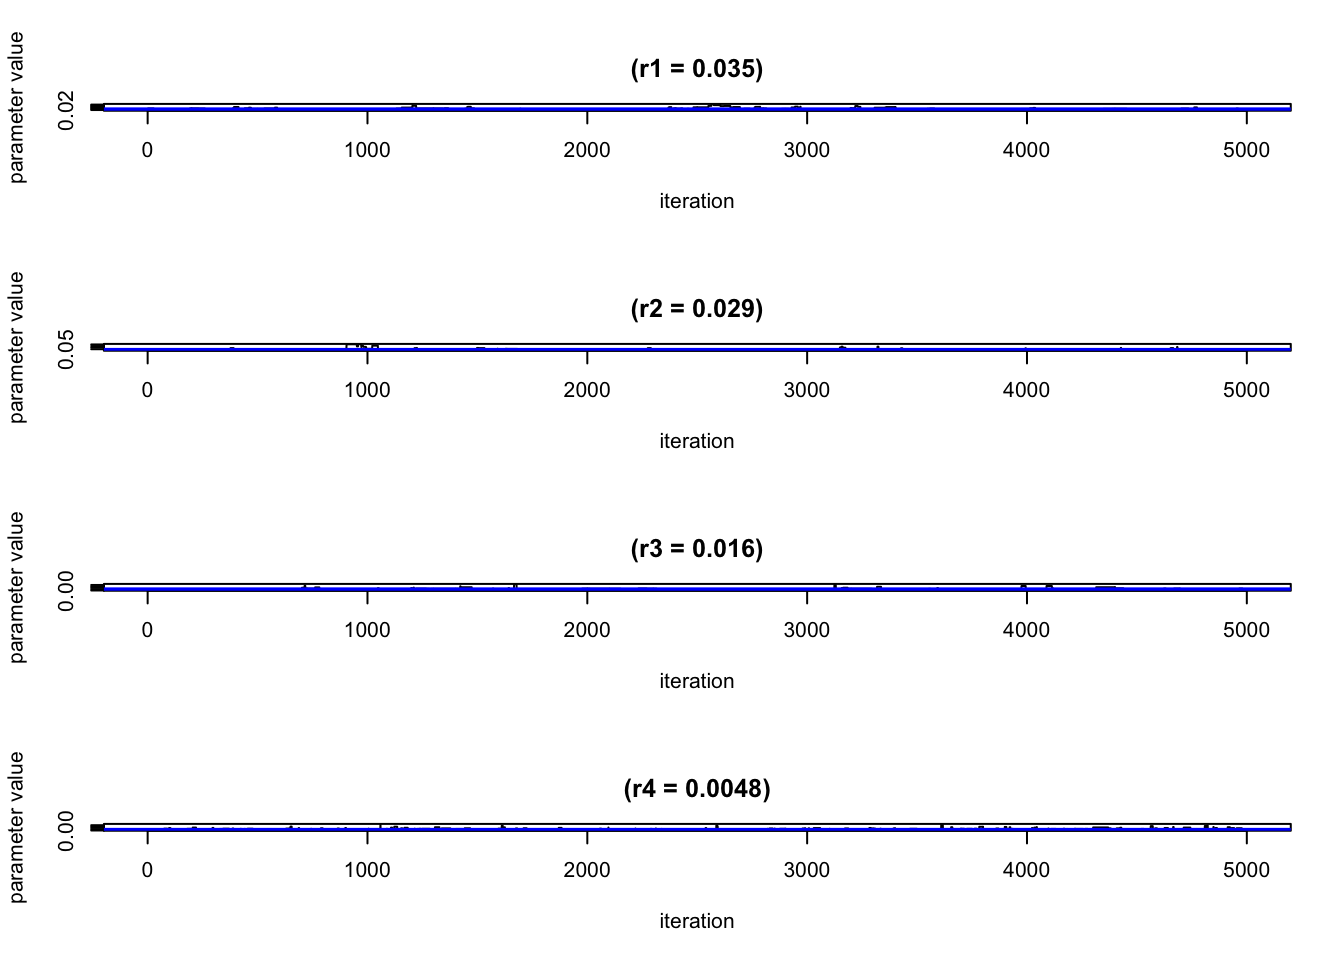
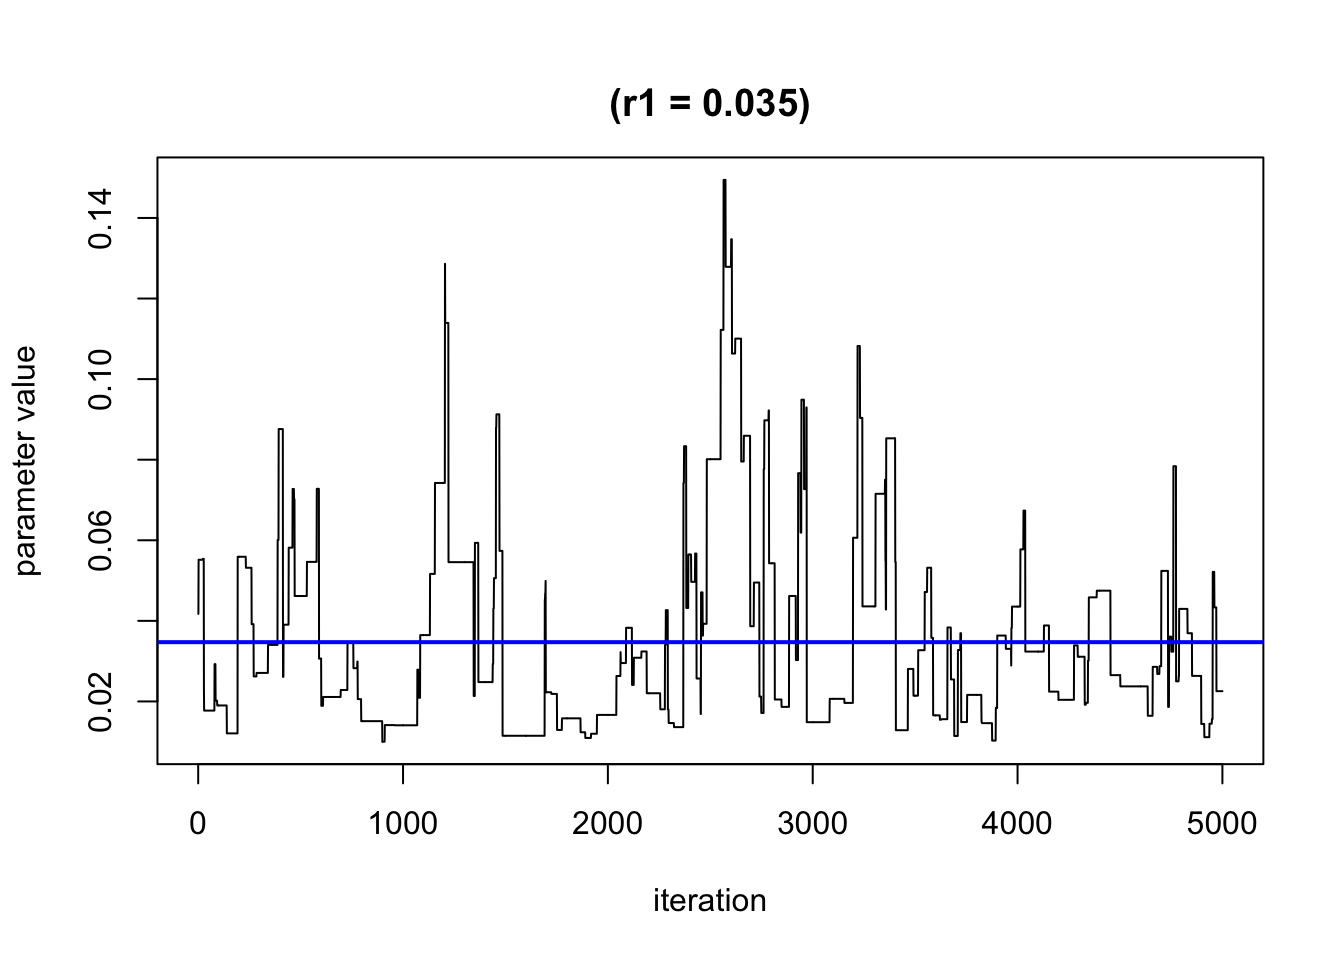
Build site.

diff --git a/docs/chemical_mixture.html b/docs/chemical_mixture.html
@@ -416,7 +416,7 @@ div.tocify {
 <div class="tab-content">
 <div id="summary" class="tab-pane fade in active">
 <p>
-<strong>Last updated:</strong> 2021-01-08
+<strong>Last updated:</strong> 2021-01-13
 </p>
 <p>
 <strong>Checks:</strong> <span class="glyphicon glyphicon-ok text-success" aria-hidden="true"></span> 7 <span class="glyphicon glyphicon-exclamation-sign text-danger" aria-hidden="true"></span> 0
@@ -507,16 +507,16 @@ This reproducible <a href="http://rmarkdown.rstudio.com">R Markdown</a> analysis
 <div class="panel panel-default">
 <div class="panel-heading">
 <p class="panel-title">
-<a data-toggle="collapse" data-parent="#workflowr-checks" href="#strongRepositoryversionstrongahrefhttpsgithubcomyuqimiaomultiomicsSIMLRtree89589b6dadbf907a3aaf72a8212d86f1abe49656targetblank89589b6a"> <span class="glyphicon glyphicon-ok text-success" aria-hidden="true"></span> <strong>Repository version:</strong> <a href="https://github.com/yuqimiao/multiomics-SIMLR/tree/89589b6dadbf907a3aaf72a8212d86f1abe49656" target="_blank">89589b6</a> </a>
+<a data-toggle="collapse" data-parent="#workflowr-checks" href="#strongRepositoryversionstrongahrefhttpsgithubcomyuqimiaomultiomicsSIMLRtreed154e64644ba62fce17fa4e61b5f7b715681291ftargetblankd154e64a"> <span class="glyphicon glyphicon-ok text-success" aria-hidden="true"></span> <strong>Repository version:</strong> <a href="https://github.com/yuqimiao/multiomics-SIMLR/tree/d154e64644ba62fce17fa4e61b5f7b715681291f" target="_blank">d154e64</a> </a>
 </p>
 </div>
[2 lines of base64/hex data omitted]
 <div class="panel-body">
 <p>
 Great! You are using Git for version control. Tracking code development and connecting the code version to the results is critical for reproducibility.
 </p>
 <p>
-The results in this page were generated with repository version <a href="https://github.com/yuqimiao/multiomics-SIMLR/tree/89589b6dadbf907a3aaf72a8212d86f1abe49656" target="_blank">89589b6</a>. See the <em>Past versions</em> tab to see a history of the changes made to the R Markdown and HTML files.
+The results in this page were generated with repository version <a href="https://github.com/yuqimiao/multiomics-SIMLR/tree/d154e64644ba62fce17fa4e61b5f7b715681291f" target="_blank">d154e64</a>. See the <em>Past versions</em> tab to see a history of the changes made to the R Markdown and HTML files.
 </p>
 <p>
 Note that you need to be careful to ensure that all relevant files for the analysis have been committed to Git prior to generating the results (you can use <code>wflow_publish</code> or <code>wflow_git_commit</code>). workflowr only checks the R Markdown file, but you know if there are other scripts or data files that it depends on. Below is the status of the Git repository when the results were generated:
@@ -527,6 +527,7 @@ Ignored files:
     Ignored:    .Rhistory
     Ignored:    .Rproj.user/
     Ignored:    analysis/.DS_Store
+    Ignored:    analysis/.Rhistory
     Ignored:    code/.DS_Store
     Ignored:    code/R/.DS_Store
     Ignored:    code/functions/.DS_Store
@@ -587,6 +588,7 @@ Untracked files:
     Untracked:  data/table_balance_3d3g.Rdata
     Untracked:  gl-simlr_old_analysis.Rmd
     Untracked:  individual_spec_weight.html
+    Untracked:  kernelmap/
     Untracked:  micro_abd.Rdata
     Untracked:  micro_abd_preabs.Rdata
     Untracked:  micro_case_pool2.Rdata
@@ -649,6 +651,40 @@ Message
 Rmd
 </td>
 <td>
+<a href="https://github.com/yuqimiao/multiomics-SIMLR/blob/d154e64644ba62fce17fa4e61b5f7b715681291f/analysis/chemical_mixture.rmd" target="_blank">d154e64</a>
+</td>
+<td>
+yuqimiao
+</td>
+<td>
+2021-01-13
+</td>
+<td>
+change plot
+</td>
+</tr>
+<tr>
+<td>
+html
+</td>
+<td>
+<a href="https://rawcdn.githack.com/yuqimiao/multiomics-SIMLR/6bc2deaed72d4ac8b4971334fb3cd8ae9c4a1e38/docs/chemical_mixture.html" target="_blank">6bc2dea</a>
+</td>
+<td>
+yuqimiao
+</td>
+<td>
+2021-01-08
+</td>
+<td>
+Build site.
+</td>
+</tr>
+<tr>
+<td>
+Rmd
+</td>
+<td>
 <a href="https://github.com/yuqimiao/multiomics-SIMLR/blob/89589b6dadbf907a3aaf72a8212d86f1abe49656/analysis/chemical_mixture.rmd" target="_blank">89589b6</a>
 </td>
 <td>
@@ -674,12 +710,12 @@ methods implementation: BKMR and WQS
 <pre><code>For guided examples, go to &#39;https://jenfb.github.io/bkmr/overview.html&#39;</code></pre>
 <pre class="r"><code>library(wqs)
 library(tidyverse)</code></pre>
-<pre><code>── Attaching packages ────────────────────── tidyverse 1.3.0 ──</code></pre>
+<pre><code>── Attaching packages ──────────────────────────── tidyverse 1.3.0 ──</code></pre>
 <pre><code>✓ ggplot2 3.3.0     ✓ purrr   0.3.3
 ✓ tibble  3.0.0     ✓ dplyr   0.8.5
 ✓ tidyr   1.0.2     ✓ stringr 1.4.0
 ✓ readr   1.3.1     ✓ forcats 0.5.0</code></pre>
-<pre><code>── Conflicts ───────────────────────── tidyverse_conflicts() ──
+<pre><code>── Conflicts ─────────────────────────────── tidyverse_conflicts() ──
 x dplyr::filter() masks stats::filter()
 x dplyr::lag()    masks stats::lag()</code></pre>
 </div>
@@ -696,20 +732,20 @@ set.seed(111)
 ## record the time taken
 start.time &lt;- Sys.time()
 fitkm &lt;- kmbayes(y = y, Z = Z, X = X, iter = 10000, verbose = FALSE, varsel = TRUE)</code></pre>
-<pre><code>Iteration: 1000 (10% completed; 5.04804 secs elapsed)</code></pre>
-<pre><code>Iteration: 2000 (20% completed; 9.93008 secs elapsed)</code></pre>
-<pre><code>Iteration: 3000 (30% completed; 14.66078 secs elapsed)</code></pre>
-<pre><code>Iteration: 4000 (40% completed; 19.18969 secs elapsed)</code></pre>
-<pre><code>Iteration: 5000 (50% completed; 23.91606 secs elapsed)</code></pre>
-<pre><code>Iteration: 6000 (60% completed; 28.66386 secs elapsed)</code></pre>
-<pre><code>Iteration: 7000 (70% completed; 33.41504 secs elapsed)</code></pre>
-<pre><code>Iteration: 8000 (80% completed; 38.13299 secs elapsed)</code></pre>
-<pre><code>Iteration: 9000 (90% completed; 42.74126 secs elapsed)</code></pre>
-<pre><code>Iteration: 10000 (100% completed; 47.91722 secs elapsed)</code></pre>
+<pre><code>Iteration: 1000 (10% completed; 5.19679 secs elapsed)</code></pre>
+<pre><code>Iteration: 2000 (20% completed; 10.61034 secs elapsed)</code></pre>
+<pre><code>Iteration: 3000 (30% completed; 15.24661 secs elapsed)</code></pre>
+<pre><code>Iteration: 4000 (40% completed; 20.05965 secs elapsed)</code></pre>
+<pre><code>Iteration: 5000 (50% completed; 25.0563 secs elapsed)</code></pre>
+<pre><code>Iteration: 6000 (60% completed; 29.7413 secs elapsed)</code></pre>
+<pre><code>Iteration: 7000 (70% completed; 34.3181 secs elapsed)</code></pre>
+<pre><code>Iteration: 8000 (80% completed; 39.26371 secs elapsed)</code></pre>
+<pre><code>Iteration: 9000 (90% completed; 44.13448 secs elapsed)</code></pre>
+<pre><code>Iteration: 10000 (100% completed; 48.86028 secs elapsed)</code></pre>
 <pre class="r"><code>end.time &lt;- Sys.time()
 time.taken1 &lt;- end.time - start.time
 time.taken1</code></pre>
-<pre><code>Time difference of 48.24217 secs</code></pre>
+<pre><code>Time difference of 49.17618 secs</code></pre>
 <pre class="r"><code>## calculate PIPs 
 ExtractPIPs(fitkm)</code></pre>
 <pre><code>  variable    PIP
@@ -719,11 +755,49 @@ ExtractPIPs(fitkm)</code></pre>
 4       z4 0.3040
 5       z5 0.2516</code></pre>
 <pre class="r"><code>## value of r and delta
-par(mfrow = c(4,1))
+
 for(i in 1:4){
   TracePlot(fitkm, par = &quot;r&quot;, comp  = i)
 }</code></pre>
 <p><img src="figure/chemical_mixture.rmd/unnamed-chunk-2-1.png" width="672" style="display: block; margin: auto;" /></p>
+<p>
+<button type="button" class="btn btn-default btn-xs btn-workflowr btn-workflowr-fig" data-toggle="collapse" data-target="#fig-unnamed-chunk-2-1">
+Past versions of unnamed-chunk-2-1.png
+</button>
+</p>
+<div id="fig-unnamed-chunk-2-1" class="collapse">
+<div class="table-responsive">
+<table class="table table-condensed table-hover">
+<thead>
+<tr>
+<th>
+Version
+</th>
+<th>
+Author
+</th>
+<th>
+Date
+</th>
+</tr>
+</thead>
+<tbody>
+<tr>
+<td>
+<a href="https://github.com/yuqimiao/multiomics-SIMLR/blob/6bc2deaed72d4ac8b4971334fb3cd8ae9c4a1e38/docs/figure/chemical_mixture.rmd/unnamed-chunk-2-1.png" target="_blank">6bc2dea</a>
+</td>
+<td>
+yuqimiao
+</td>
+<td>
+2021-01-08
+</td>
+</tr>
+</tbody>
+</table>
+</div>
+</div>
+<p><img src="figure/chemical_mixture.rmd/unnamed-chunk-2-2.png" width="672" style="display: block; margin: auto;" /><img src="figure/chemical_mixture.rmd/unnamed-chunk-2-3.png" width="672" style="display: block; margin: auto;" /><img src="figure/chemical_mixture.rmd/unnamed-chunk-2-4.png" width="672" style="display: block; margin: auto;" /></p>
 <pre class="r"><code>colMeans(fitkm$delta[5000:10000,])</code></pre>
 <pre><code>[1] 1.0000000 1.0000000 0.9102180 0.3039392 0.2515497</code></pre>
 </div>
@@ -734,7 +808,7 @@ fitwqs = wqs.est(y.train = y,x.train = Z,z.train = X)
 end.time &lt;- Sys.time()
 time.taken2 &lt;- end.time - start.time
 time.taken2</code></pre>
-<pre><code>Time difference of 5.6629 secs</code></pre>
+<pre><code>Time difference of 5.790741 secs</code></pre>
 <pre class="r"><code>fitwqs$weights</code></pre>
 <pre><code>          w1           w2           w3           w4           w5 
 5.929152e-01 3.872376e-01 3.084791e-09 4.552650e-03 1.529463e-02 </code></pre>
@@ -757,20 +831,20 @@ z4 -0.01 -0.08 0.03  1.00</code></pre>
 <pre class="r"><code>## record the time taken
 start.time &lt;- Sys.time()
 fitkm2 &lt;- kmbayes(y = y, Z = Z, X = X, groups = c(1,2,1,3),  iter = 10000, verbose = FALSE, varsel = TRUE)</code></pre>
-<pre><code>Iteration: 1000 (10% completed; 4.66023 secs elapsed)</code></pre>
-<pre><code>Iteration: 2000 (20% completed; 9.36078 secs elapsed)</code></pre>
-<pre><code>Iteration: 3000 (30% completed; 13.75725 secs elapsed)</code></pre>
-<pre><code>Iteration: 4000 (40% completed; 18.46879 secs elapsed)</code></pre>
-<pre><code>Iteration: 5000 (50% completed; 22.95002 secs elapsed)</code></pre>
-<pre><code>Iteration: 6000 (60% completed; 27.46097 secs elapsed)</code></pre>
-<pre><code>Iteration: 7000 (70% completed; 31.87845 secs elapsed)</code></pre>
-<pre><code>Iteration: 8000 (80% completed; 36.25564 secs elapsed)</code></pre>
-<pre><code>Iteration: 9000 (90% completed; 40.68359 secs elapsed)</code></pre>
-<pre><code>Iteration: 10000 (100% completed; 45.35051 secs elapsed)</code></pre>
+<pre><code>Iteration: 1000 (10% completed; 4.54397 secs elapsed)</code></pre>
+<pre><code>Iteration: 2000 (20% completed; 8.69686 secs elapsed)</code></pre>
+<pre><code>Iteration: 3000 (30% completed; 13.11669 secs elapsed)</code></pre>
+<pre><code>Iteration: 4000 (40% completed; 17.43072 secs elapsed)</code></pre>
+<pre><code>Iteration: 5000 (50% completed; 21.57019 secs elapsed)</code></pre>
+<pre><code>Iteration: 6000 (60% completed; 26.15053 secs elapsed)</code></pre>
+<pre><code>Iteration: 7000 (70% completed; 30.59543 secs elapsed)</code></pre>
+<pre><code>Iteration: 8000 (80% completed; 35.78401 secs elapsed)</code></pre>
+<pre><code>Iteration: 9000 (90% completed; 39.94687 secs elapsed)</code></pre>
+<pre><code>Iteration: 10000 (100% completed; 44.12588 secs elapsed)</code></pre>
 <pre class="r"><code>end.time &lt;- Sys.time()
 time.taken3 &lt;- end.time - start.time
 time.taken3</code></pre>
-<pre><code>Time difference of 45.35893 secs</code></pre>
+<pre><code>Time difference of 44.13646 secs</code></pre>
 <pre class="r"><code>## calculate PIPs 
 ExtractPIPs(fitkm2)</code></pre>
 <pre><code>Warning: `data_frame()` is deprecated as of tibble 1.1.0.
@@ -783,11 +857,49 @@ Call `lifecycle::last_warnings()` to see where this warning was generated.</code
 3       z3     1   1.0000   0.766
 4       z4     3   0.3444   1.000</code></pre>
 <pre class="r"><code>## value of r and delta
-par(mfrow = c(4,1))
+
 for(i in 1:4){
   TracePlot(fitkm, par = &quot;r&quot;, comp  = i)
 }</code></pre>
 <p><img src="figure/chemical_mixture.rmd/unnamed-chunk-5-1.png" width="672" style="display: block; margin: auto;" /></p>
+<p>
+<button type="button" class="btn btn-default btn-xs btn-workflowr btn-workflowr-fig" data-toggle="collapse" data-target="#fig-unnamed-chunk-5-1">
+Past versions of unnamed-chunk-5-1.png
+</button>
+</p>
+<div id="fig-unnamed-chunk-5-1" class="collapse">
+<div class="table-responsive">
+<table class="table table-condensed table-hover">
+<thead>
+<tr>
+<th>
+Version
+</th>
+<th>
+Author
+</th>
+<th>
+Date
+</th>
+</tr>
+</thead>
+<tbody>
+<tr>
+<td>
+<a href="https://github.com/yuqimiao/multiomics-SIMLR/blob/6bc2deaed72d4ac8b4971334fb3cd8ae9c4a1e38/docs/figure/chemical_mixture.rmd/unnamed-chunk-5-1.png" target="_blank">6bc2dea</a>
+</td>
+<td>
+yuqimiao
+</td>
+<td>
+2021-01-08
+</td>
+</tr>
+</tbody>
+</table>
+</div>
+</div>
+<p><img src="figure/chemical_mixture.rmd/unnamed-chunk-5-2.png" width="672" style="display: block; margin: auto;" /><img src="figure/chemical_mixture.rmd/unnamed-chunk-5-3.png" width="672" style="display: block; margin: auto;" /><img src="figure/chemical_mixture.rmd/unnamed-chunk-5-4.png" width="672" style="display: block; margin: auto;" /></p>
 <pre class="r"><code>colMeans(fitkm$delta[5000:10000,])</code></pre>
 <pre><code>[1] 1.0000000 1.0000000 0.9102180 0.3039392 0.2515497</code></pre>
 </div>
@@ -798,7 +910,7 @@ fitwqs2 = wqs.est(y.train = y,x.train = Z,z.train = X)
 end.time &lt;- Sys.time()
 time.taken4 &lt;- end.time - start.time
 time.taken4</code></pre>
-<pre><code>Time difference of 4.668504 secs</code></pre>
+<pre><code>Time difference of 4.696219 secs</code></pre>
 <pre class="r"><code>fitwqs2$weights</code></pre>
 <pre><code>       w1        w2        w3        w4 
 0.1740128 0.1880170 0.5069395 0.1310307 </code></pre>
